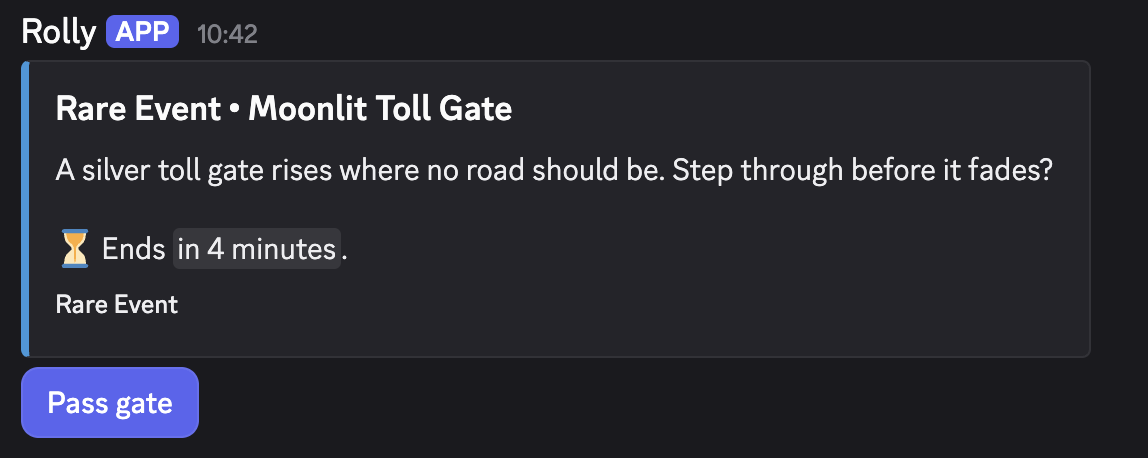
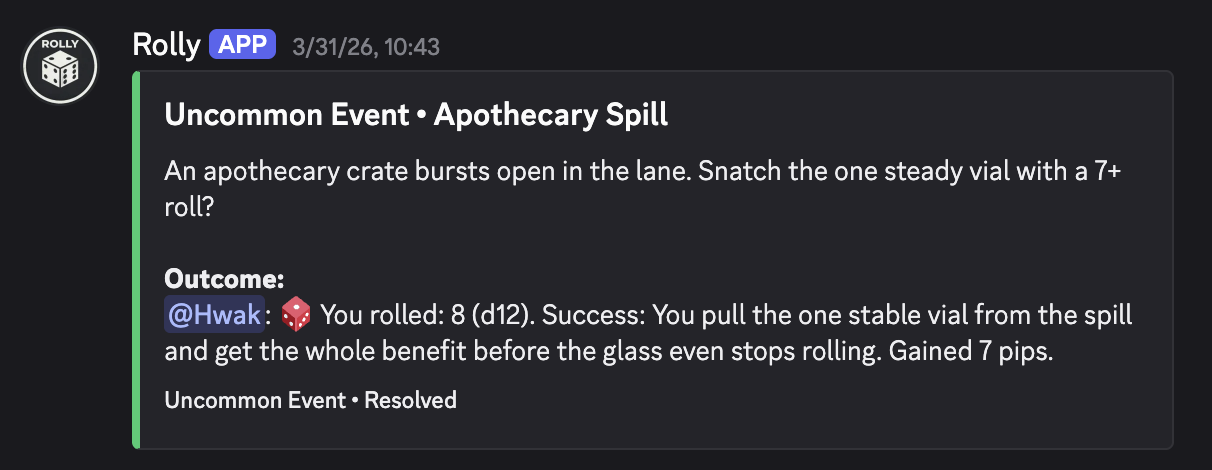
Refresh README gameplay screenshots

Changed region(s): [[0.0, 0.0306, 0.9451, 0.9782]]

diff --git a/README.md b/README.md
@@ -5,7 +5,7 @@ Rolly is a Discord dice game bot built around a persistent loop: roll, grow your
 ## Why Rolly
 
 - `/roll` is the core loop: matching rolls drive progression, achievements, Fame, Pips, bans, and temporary effects.
-- The surrounding systems keep the server busy: PvP, casino games, World Boss fights, post-clear Double Roll Rush threads, random events, inventory, and progression systems all feed back into the next roll, including random-event payouts that can grant consumable items.
+- The surrounding systems keep the server busy: PvP, casino games, contracts, player-started raids, World Boss fights, post-clear Double Roll Rush threads, random events, inventory, and progression systems all feed back into the next roll, including random-event payouts that can grant consumable items.
 
 ## In Action
 
@@ -15,11 +15,23 @@ PvP duels can grant temporary roll buffs that feed back into the main `/roll` lo
 
 Players can inspect their current Rolly status with `/stats`:
 
-<img src="docs/images/analytics.png" alt="Player stats command output" width="360" />
+<img src="docs/images/stats.png" alt="Player stats command output" width="360" />
 
 Random events arrive as live interaction prompts inside the server:
 
 <img src="docs/images/event.png" alt="Random event prompt" width="480" />
+
+Contracts use a persistent Contract Master panel with Daily and Weekly offers:
+
+<img src="docs/images/contract-master.png" alt="Contract Master panel with Daily and Weekly contract buttons" width="480" />
+
+Player-started raids begin from synced tier panels instead of a slash command:
+
+<img src="docs/images/raids.png" alt="Raid tier panel with boss selection buttons" width="480" />
+
+Successful raids resolve in Discord with rewards, participants, and damage leaders:
+
+<img src="docs/images/world-boss.png" alt="Raid clear summary with rewards and damage leaders" width="480" />
 
 ## Command Surface
 
